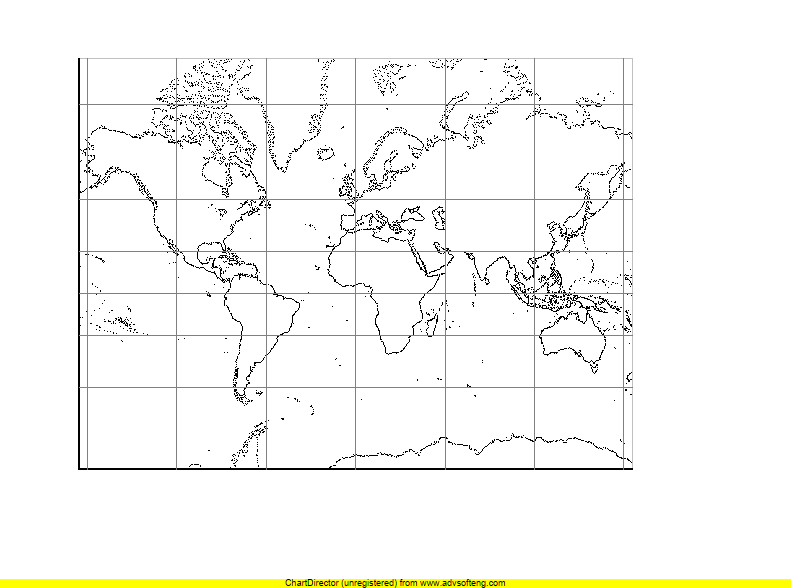
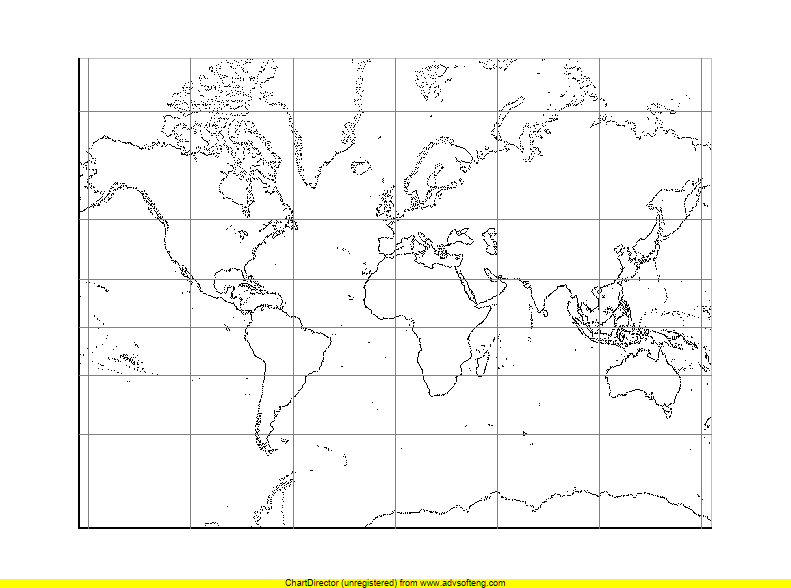
Now it looks very very very nice

diff --git a/lib_gui.h b/lib_gui.h
@@ -6,7 +6,7 @@
 //latitude span
 #define span_lat ((floor_max_lat-floor_min_lat+1)
 //the ratio between the width (height) of the plot area and the width (height) of the chart.
-#define length_plot_area_over_length_chart 0.7
+#define length_plot_area_over_length_chart 0.8
 #define outfile_precision 16
 
 
